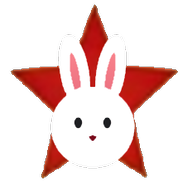
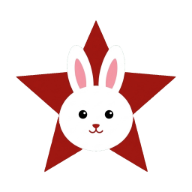
Ícone novo do Syden e coelhos que engordam
O desenho que o usuário entregou (OurBunnyEstrela) virou o ícone do Syden em todo
lugar: barra lateral, abertura, aba do navegador, atalho do celular e ícone do app
instalado. O arquivo veio em JPG, que não tem transparência, e fundo branco atrás
de um botão redondo apareceria como um quadrado — mas recortar "tudo que é branco"
comeria o coelho, que também é branco. O recorte saiu do próprio material: o
OurBunny.png (coelho sozinho, já transparente) encaixa sobre o composto e diz o
que é coelho; o resto é separado do fundo pela quantidade de vermelho, com as
bordas virando transparência parcial para não ficarem serrilhadas. O script está
em scratchpad/gera-icones.mjs e produz todos os tamanhos de uma vez.

No tema claro o coelho branco quase sumia no fundo claro: ganhou um contorno
fininho, só ali.

E a vila agora responde à comida: cinco cenouras plantadas e a turma engorda
(barriga larga, bochechas, orelhas menores), com um empurrãozinho de animação na
virada. A conta fica guardada no navegador de cada um, e a própria dica oferece
"colocar de dieta" para voltar atrás. De quebra, cenoura plantada em cima da fonte
agora é empurrada para a beirada — ninguém mais come dentro d'água.

O BigChunkusEstrela fica no repositório como alternativa.

diff --git a/web/src/Vila.tsx b/web/src/Vila.tsx
@@ -399,6 +399,26 @@ function Pier() {
  */
 const SENTIMENTOS = ['❤', '✨', '🥕', '😴', '🎵', '🌸', '😊', '👀', '🥰', '😮', '🌟', '🍀', '☀', '🫧'];
 
+/** Quantas cenouras é preciso plantar para a turma engordar. */
+const CENOURAS_PARA_ENGORDAR = 5;
+const CHAVE_CENOURAS = 'syden.cenouras';
+
+function lerCenouras(): number {
+  try {
+    return Number(localStorage.getItem(CHAVE_CENOURAS)) || 0;
+  } catch {
+    return 0; // navegador sem armazenamento: os coelhos só não guardam a dieta
+  }
+}
+
+function guardarCenouras(quantas: number) {
+  try {
+    localStorage.setItem(CHAVE_CENOURAS, String(quantas));
+  } catch {
+    // sem armazenamento: vale só enquanto a aba estiver aberta
+  }
+}
+
 /** Onde os coelhos podem andar: a praça e o gramado da frente. */
 const PASSEIO = { c0: -2.6, c1: 2.8, r0: -0.6, r1: 2.8 };
 /** Velocidade: quantos pisos por segundo. */
@@ -426,6 +446,16 @@ interface CoelhoNaVila {
 /** Onde fica a fonte: ninguém anda por dentro dela. */
 const FONTE = { c: 0.6, r: 1.9, raio: 1.35 };
 
+/** Empurra um ponto para fora da fonte: cenoura dentro d'água faria a turma toda pisar nela. */
+function foraDaFonte(ponto: { c: number; r: number }) {
+  const dc = ponto.c - FONTE.c;
+  const dr = ponto.r - FONTE.r;
+  const dist = Math.hypot(dc, dr);
+  if (dist >= FONTE.raio) return ponto;
+  if (dist < 0.001) return { c: FONTE.c, r: FONTE.r + FONTE.raio };
+  return { c: FONTE.c + (dc / dist) * FONTE.raio, r: FONTE.r + (dr / dist) * FONTE.raio };
+}
+
 function sorteioNoPasseio() {
   for (let tentativa = 0; tentativa < 12; tentativa++) {
     const ponto = {
@@ -437,34 +467,53 @@ function sorteioNoPasseio() {
   return { c: PASSEIO.c0, r: PASSEIO.r0 };
 }
 
-function CoelhoArte({ id }: { id: number }) {
+/**
+ * O coelho. Bem alimentado (cinco cenouras plantadas), ele engorda: a barriga alarga, as bochechas
+ * crescem e as orelhas encolhem um pouco — é o "BigChunkus" que o usuário desenhou, em movimento.
+ */
+function CoelhoArte({ id, gordo = false }: { id: number; gordo?: boolean }) {
   const u = UNIFORMES[id % UNIFORMES.length];
+  // Uma medida só comanda a silhueta inteira, para o gordo continuar sendo o mesmo bicho.
+  const barriga = gordo ? 12.6 : 8.6;
+  const altura = gordo ? 10.4 : 9.6;
+  const cabeca = gordo ? 9.2 : 7.8;
+  const orelha = gordo ? 7.6 : 9;
+  const patas = gordo ? 7 : 5;
+  const centro = gordo ? -11.5 : -11;
+  const topo = gordo ? -24.5 : -23;
+  const pontaOrelha = topo - (gordo ? 7 : 8);
   return (
-    <g>
-      <ellipse cx={0} cy={0} rx={12} ry={5} className="v-sombra" />
+    <g className={gordo ? 'v-gordo' : undefined}>
+      <ellipse cx={0} cy={0} rx={gordo ? 15 : 12} ry={gordo ? 6 : 5} className="v-sombra" />
       {/* orelhas */}
-      <ellipse cx={-4.6} cy={-31} rx={3.2} ry={9} fill="#f7f1e6" transform="rotate(-10 -4.6 -31)" />
-      <ellipse cx={4.6} cy={-31} rx={3.2} ry={9} fill="#f7f1e6" transform="rotate(10 4.6 -31)" />
-      <ellipse cx={-4.6} cy={-31} rx={1.4} ry={5.4} fill="#efaab6" transform="rotate(-10 -4.6 -31)" />
-      <ellipse cx={4.6} cy={-31} rx={1.4} ry={5.4} fill="#efaab6" transform="rotate(10 4.6 -31)" />
+      <ellipse cx={-4.6} cy={pontaOrelha} rx={3.2} ry={orelha} fill="#f7f1e6" transform={`rotate(-10 -4.6 ${pontaOrelha})`} />
+      <ellipse cx={4.6} cy={pontaOrelha} rx={3.2} ry={orelha} fill="#f7f1e6" transform={`rotate(10 4.6 ${pontaOrelha})`} />
+      <ellipse cx={-4.6} cy={pontaOrelha} rx={1.4} ry={orelha * 0.6} fill="#efaab6" transform={`rotate(-10 -4.6 ${pontaOrelha})`} />
+      <ellipse cx={4.6} cy={pontaOrelha} rx={1.4} ry={orelha * 0.6} fill="#efaab6" transform={`rotate(10 4.6 ${pontaOrelha})`} />
       {/* pés e corpo de uniforme */}
-      <ellipse cx={-5} cy={-2} rx={4} ry={2.4} fill={u.sombra} />
-      <ellipse cx={5} cy={-2} rx={4} ry={2.4} fill={u.sombra} />
-      <ellipse cx={0} cy={-11} rx={8.6} ry={9.6} fill={u.pano} />
-      <ellipse cx={-7.4} cy={-11} rx={2.6} ry={5} fill={u.sombra} />
-      <ellipse cx={7.4} cy={-11} rx={2.6} ry={5} fill={u.sombra} />
-      <polygon points={estrela(0, -11, 3.6)} className="v-estrela" />
+      <ellipse cx={-patas} cy={-2} rx={4} ry={2.4} fill={u.sombra} />
+      <ellipse cx={patas} cy={-2} rx={4} ry={2.4} fill={u.sombra} />
+      <ellipse cx={0} cy={centro} rx={barriga} ry={altura} fill={u.pano} />
+      <ellipse cx={-(barriga - 1.2)} cy={centro} rx={2.6} ry={5} fill={u.sombra} />
+      <ellipse cx={barriga - 1.2} cy={centro} rx={2.6} ry={5} fill={u.sombra} />
+      <polygon points={estrela(0, centro, gordo ? 4.4 : 3.6)} className="v-estrela" />
       {/* cabeça */}
-      <circle cx={0} cy={-23} r={7.8} fill="#f7f1e6" />
-      <circle cx={-3} cy={-23.4} r={1.3} fill="#3b3a38" />
-      <circle cx={3} cy={-23.4} r={1.3} fill="#3b3a38" />
-      <circle cx={-2.6} cy={-23.9} r={0.45} fill="#fff" />
-      <circle cx={3.4} cy={-23.9} r={0.45} fill="#fff" />
-      <path d="M0,-21 l-1.3,1.2 h2.6 z" fill="#e0879a" />
+      <circle cx={0} cy={topo} r={cabeca} fill="#f7f1e6" />
+      {gordo && (
+        <>
+          <ellipse cx={-cabeca * 0.78} cy={topo + 2.6} rx={3.4} ry={3} fill="#f7f1e6" />
+          <ellipse cx={cabeca * 0.78} cy={topo + 2.6} rx={3.4} ry={3} fill="#f7f1e6" />
+        </>
+      )}
+      <circle cx={-3} cy={topo - 0.4} r={1.3} fill="#3b3a38" />
+      <circle cx={3} cy={topo - 0.4} r={1.3} fill="#3b3a38" />
+      <circle cx={-2.6} cy={topo - 0.9} r={0.45} fill="#fff" />
+      <circle cx={3.4} cy={topo - 0.9} r={0.45} fill="#fff" />
+      <path d={`M0,${topo + 2} l-1.3,1.2 h2.6 z`} fill="#e0879a" />
       {/* boné com estrela */}
-      <path d="M-8.4,-27.4 Q0,-33.6 8.4,-27.4 L8.4,-25.6 Q0,-30.4 -8.4,-25.6 Z" fill={u.pano} />
-      <path d="M-9.8,-26 Q0,-29.6 5.4,-25.4 L-9.6,-24.4 Z" fill={u.sombra} />
-      <polygon points={estrela(0, -29.4, 2.4)} className="v-estrela" />
+      <path d={`M-8.4,${topo - 4.4} Q0,${topo - 10.6} 8.4,${topo - 4.4} L8.4,${topo - 2.6} Q0,${topo - 7.4} -8.4,${topo - 2.6} Z`} fill={u.pano} />
+      <path d={`M-9.8,${topo - 3} Q0,${topo - 6.6} 5.4,${topo - 2.4} L-9.6,${topo - 1.4} Z`} fill={u.sombra} />
+      <polygon points={estrela(0, topo - 6.4, 2.4)} className="v-estrela" />
     </g>
   );
 }
@@ -521,6 +570,8 @@ export function Vila({
   );
   const [cenoura, setCenoura] = useState<{ c: number; r: number; id: number } | null>(null);
   const [cutucados, setCutucados] = useState(0);
+  // Cenouras plantadas até hoje. Passando de cinco, a turma engorda — e continua gorda no próximo dia.
+  const [cenouras, setCenouras] = useState(lerCenouras);
   const svgRef = useRef<SVGSVGElement | null>(null);
 
   // Vida própria: de tempos em tempos um ou outro resolve dar uma volta.
@@ -547,12 +598,17 @@ export function Vila({
     const x = ((event.clientX - caixa.left) / caixa.width) * LARGURA;
     const y = ((event.clientY - caixa.top) / caixa.height) * ALTURA;
     const ponto = deIso(x, y);
-    const alvo = {
+    const alvo = foraDaFonte({
       c: Math.min(PASSEIO.c1, Math.max(PASSEIO.c0, ponto.c)),
       r: Math.min(PASSEIO.r1, Math.max(PASSEIO.r0, ponto.r)),
-    };
+    });
     const id = Date.now();
     setCenoura({ ...alvo, id });
+    setCenouras((quantas) => {
+      const proxima = quantas + 1;
+      guardarCenouras(proxima);
+      return proxima;
+    });
     setCoelhos((lista) =>
       lista.map((coelho, i) =>
         caminhar(coelho, {
@@ -562,6 +618,15 @@ export function Vila({
       ),
     );
     setTimeout(() => setCenoura((atual) => (atual?.id === id ? null : atual)), 5200);
+  }
+
+  /** Bem alimentados: passou de cinco cenouras, a turma engorda. */
+  const gordos = cenouras >= CENOURAS_PARA_ENGORDAR;
+
+  /** Quem engordou pode voltar à forma: zera a conta das cenouras. */
+  function reiniciarDieta() {
+    setCenouras(0);
+    guardarCenouras(0);
   }
 
   const cenouraPonto = cenoura ? iso(cenoura.c, cenoura.r) : null;
@@ -723,7 +788,7 @@ export function Vila({
               {/* o tamanho vai no atributo, não no CSS: assim a animação de andar mexe só na posição */}
               <g transform={`scale(${(coelho.olhandoEsquerda ? -escala : escala).toFixed(2)} ${escala.toFixed(2)})`}>
                 <g className="v-coelho-corpo">
-                  <CoelhoArte id={coelho.id} />
+                  <CoelhoArte id={coelho.id} gordo={gordos} />
                 </g>
               </g>
               {coelho.fala && (
@@ -768,6 +833,15 @@ export function Vila({
       <p className="vila-dica">
         Cutuque os coelhos, clique na grama para plantar uma cenoura.
         {cutucados > 0 && ` · ${cutucados} ${cutucados === 1 ? 'cutucada' : 'cutucadas'} hoje`}
+        {cenouras > 0 && ` · 🥕 ${cenouras}`}
+        {gordos && (
+          <>
+            {' · a turma engordou! '}
+            <button className="vila-dieta" onClick={reiniciarDieta}>
+              colocar de dieta
+            </button>
+          </>
+        )}
       </p>
     </div>
   );

diff --git a/web/src/styles.css b/web/src/styles.css
@@ -5596,3 +5596,45 @@ textarea {
 @media (max-width: 760px) {
   .ideias { padding: 20px 16px 0; }
 }
+
+/* Quem engordou pode voltar à forma: o botãozinho na dica da vila. */
+.vila-dica {
+  pointer-events: none;
+}
+
+.vila-dieta {
+  pointer-events: auto;
+  border: none;
+  background: none;
+  padding: 0;
+  color: #ffd98a;
+  font: inherit;
+  text-decoration: underline;
+  cursor: pointer;
+}
+
+/* O momento em que a barriga cresce: um empurrãozinho, para a mudança não ser um pulo seco. */
+.v-gordo {
+  /* Num <g>, a escala do CSS gira em torno do centro do desenho INTEIRO se a gente não disser o
+     contrário — o coelho sairia voando pela vila. Aqui ela cresce a partir dos pés dele. */
+  transform-box: fill-box;
+  transform-origin: center bottom;
+  animation: v-encher 0.5s ease-out;
+}
+
+@keyframes v-encher {
+  0% { transform: scale(0.86, 1.06); }
+  55% { transform: scale(1.1, 0.95); }
+  100% { transform: scale(1, 1); }
+}
+
+@media (prefers-reduced-motion: reduce) {
+  .v-gordo { animation: none; }
+}
+
+/* No tema claro o coelho é branco sobre fundo claro e quase some, sobrando só a estrela. Um contorno
+   fininho devolve a silhueta sem sujar o desenho (no tema escuro ele já se destaca sozinho). */
+:root[data-theme='light'] .rail-logo img,
+:root[data-theme='light'] .splash-logo-to {
+  filter: drop-shadow(0 0 0.6px rgba(60, 40, 40, 0.55)) drop-shadow(0 0 1.4px rgba(60, 40, 40, 0.3));
+}

diff --git a/web/src/changelog.ts b/web/src/changelog.ts
@@ -11,6 +11,15 @@ export interface Update {
 export const CHANGELOG: Update[] = [
   {
     date: '2026-09-23',
+    title: 'Ícone novo e coelhos bem alimentados',
+    icon: '🥕',
+    items: [
+      'O Syden ganhou um desenho novo: o mesmo coelho na estrela, mais limpo e com sorriso, no ícone do app, na aba do navegador e na abertura.',
+      'Plante cinco cenouras na vila e a turma engorda. Dá para colocá-los de dieta pela própria dica, no canto da cena.',
+    ],
+  },
+  {
+    date: '2026-09-23',
     title: 'A tela inicial virou uma vila',
     icon: '🏡',
     items: [
